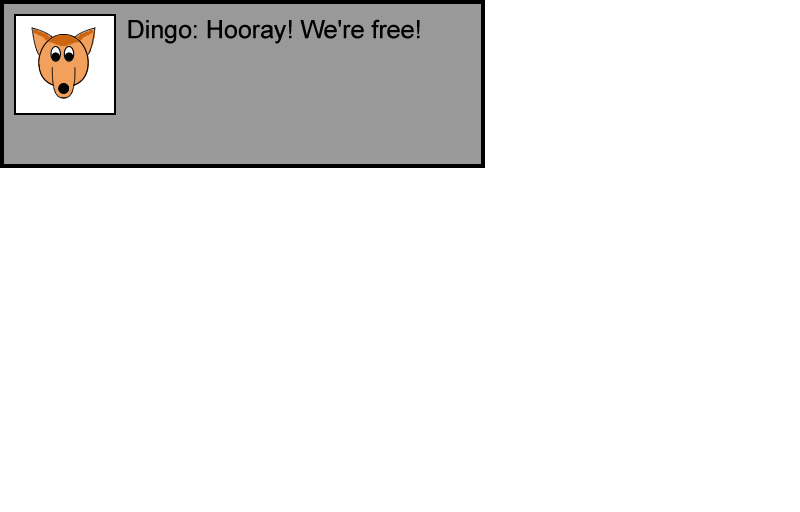
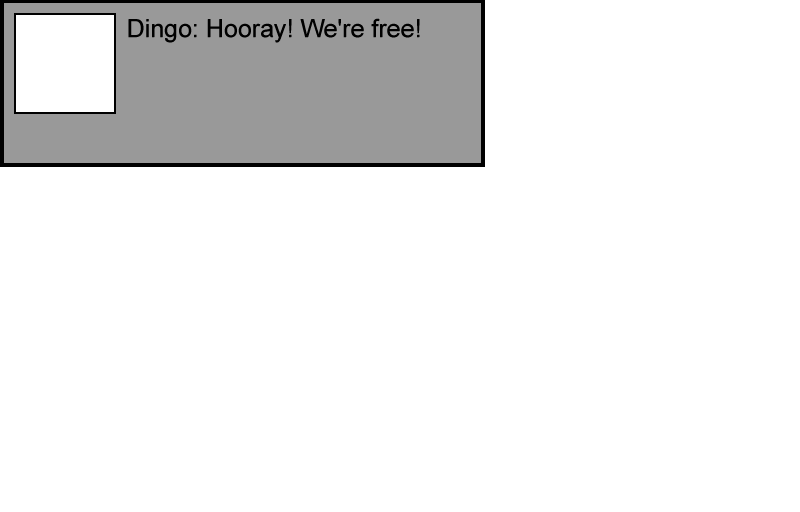
escape the zoo image

diff --git a/src/gameloop.py b/src/gameloop.py
@@ -25,6 +25,7 @@ from player.koala import Koala
 from player.taz import Taz
 from player.dingo import Dingo
 from utils.sound_util import SoundUtil
+from map.cutscene import Cutscene
 
 class Game:
     
@@ -41,6 +42,7 @@ class Game:
         pygame.mouse.set_visible(1);        
         
         self.hasKey = False
+        self.animalsFreed = False
         
         self.soundUtil = SoundUtil()
         self.soundUtil.sound_on = True
@@ -68,7 +70,7 @@ class Game:
         for key in pygame.key.get_pressed():
             self.pressed.append( True )
             
-        self.loadLevel("reptileland.txt")
+        self.loadLevel("jail.txt")
         
         self.returnToMainMenu = False
         
@@ -142,6 +144,12 @@ class Game:
     def free_animal(self, animal_name):
         animals_freed[animal_name] = image_util.load_image(animal_info.info[animal_name][3])
         self.hud.draw()
+        if len(animals_freed) is 5 and self.animalsFreed is False:
+            cutscene = Cutscene(self, "escape the zoo", \
+                                 [image_util.load_image(os.path.join("cutscenes","escape_the_zoo.png"))], \
+                                 image_util.load_sliced_sprites(210, 80, os.path.join("cutscenes","press_enter.png")));
+            cutscene.fire(self.player)
+            self.animalsFreed = True
     
     def gameloop(self):
         self.returnToMainMenu = False

diff --git a/src/specialObject/dingo_door.py b/src/specialObject/dingo_door.py
@@ -15,11 +15,13 @@ class DingoDoor(GameObject):
     
     def __init__(self, image, x, y, game):
         super(DingoDoor, self).__init__(image, (x*TILE_SIZE, y*TILE_SIZE), game)
-        self.cutscene = Cutscene(self.game, "freed dingos", [image_util.load_image(os.path.join("cutscenes","dingo_free.png"))], \
+        self.cutscene = Cutscene(self.game, "freed dingos", \
+                                 [image_util.load_image(os.path.join("cutscenes","dingo_free.png"))], \
                                  image_util.load_sliced_sprites(210, 80, os.path.join("cutscenes","press_enter.png")));
         self.game.current_map.game_objects.add(self)
         
     def end(self, source):
         self.kill()
         self.cutscene.fire(source)
+        self.game.free_animal("Dingo")
             
